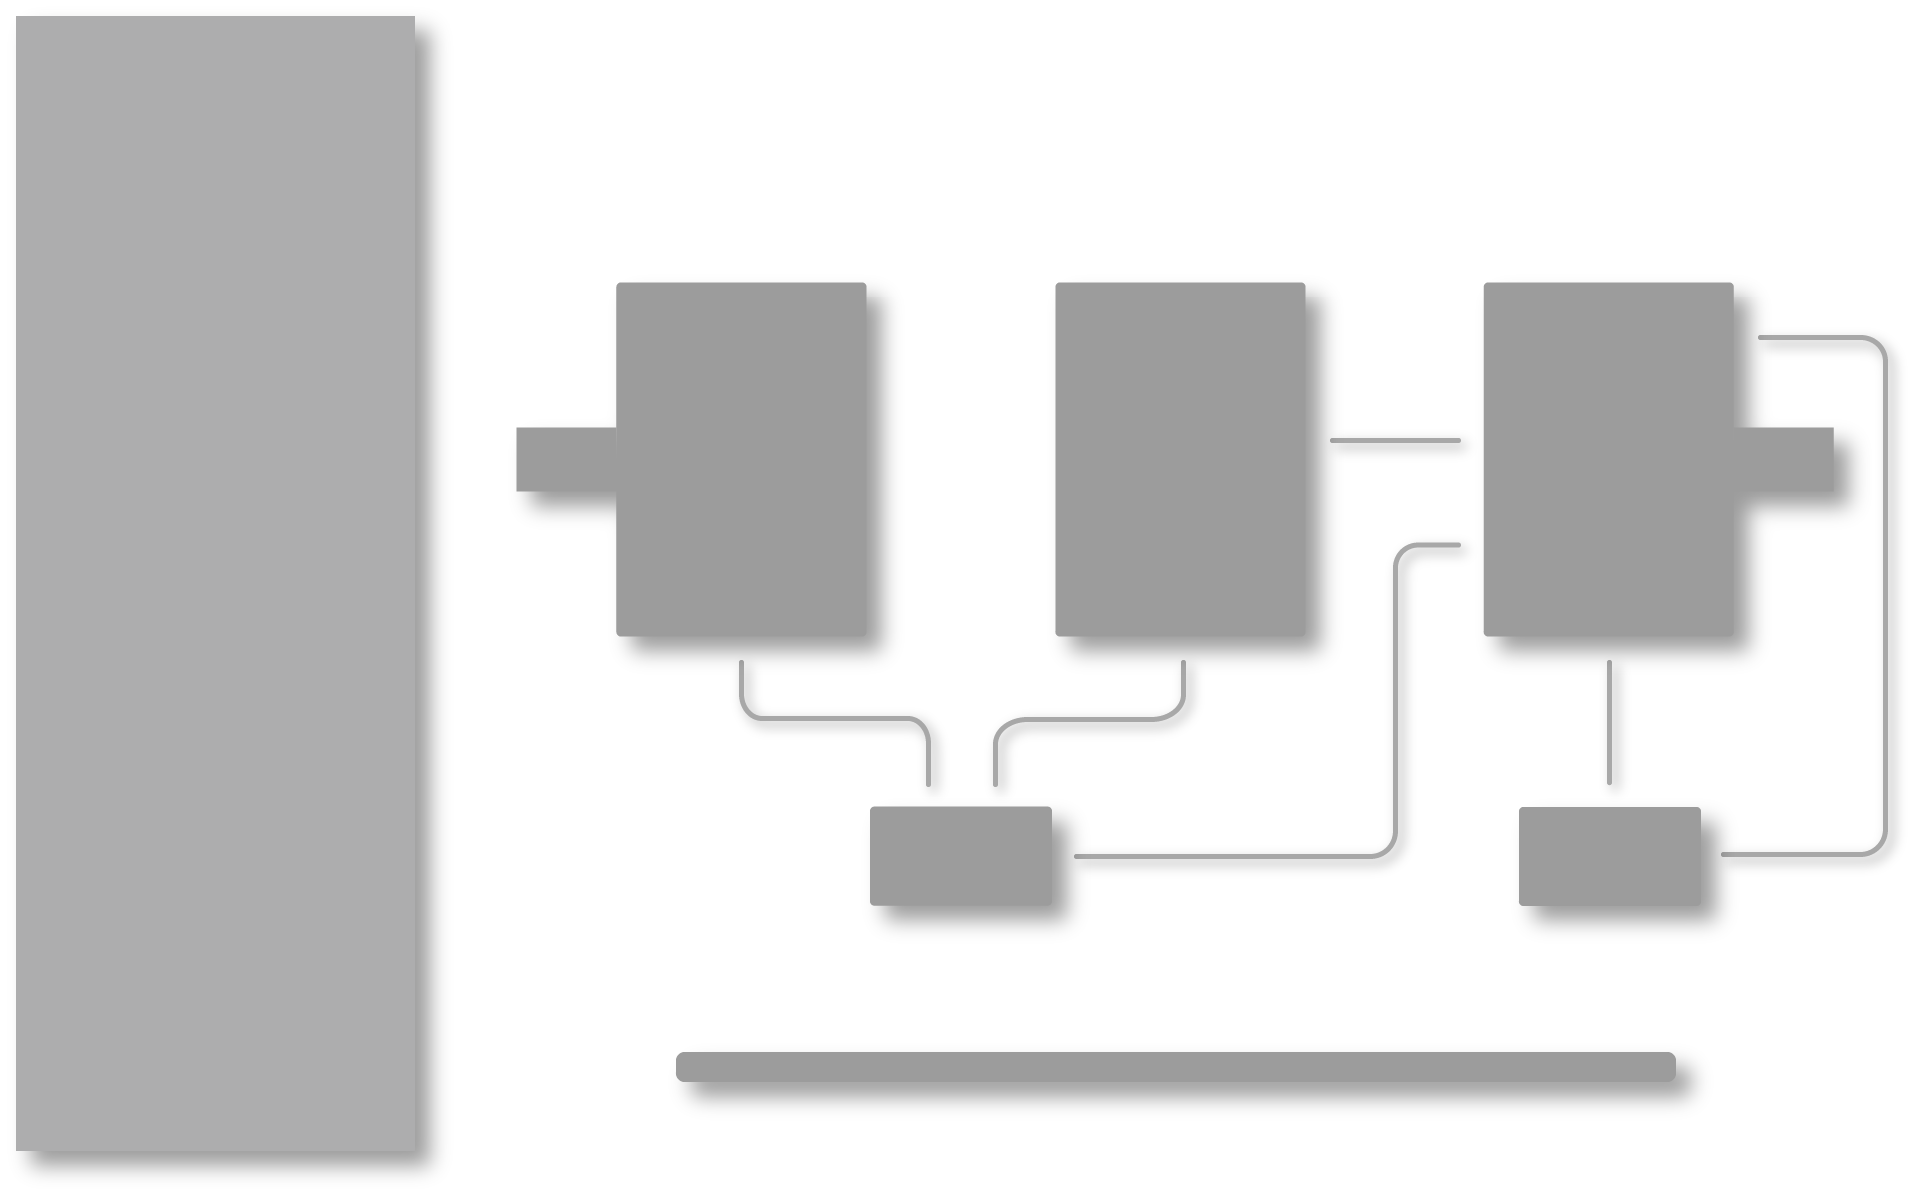
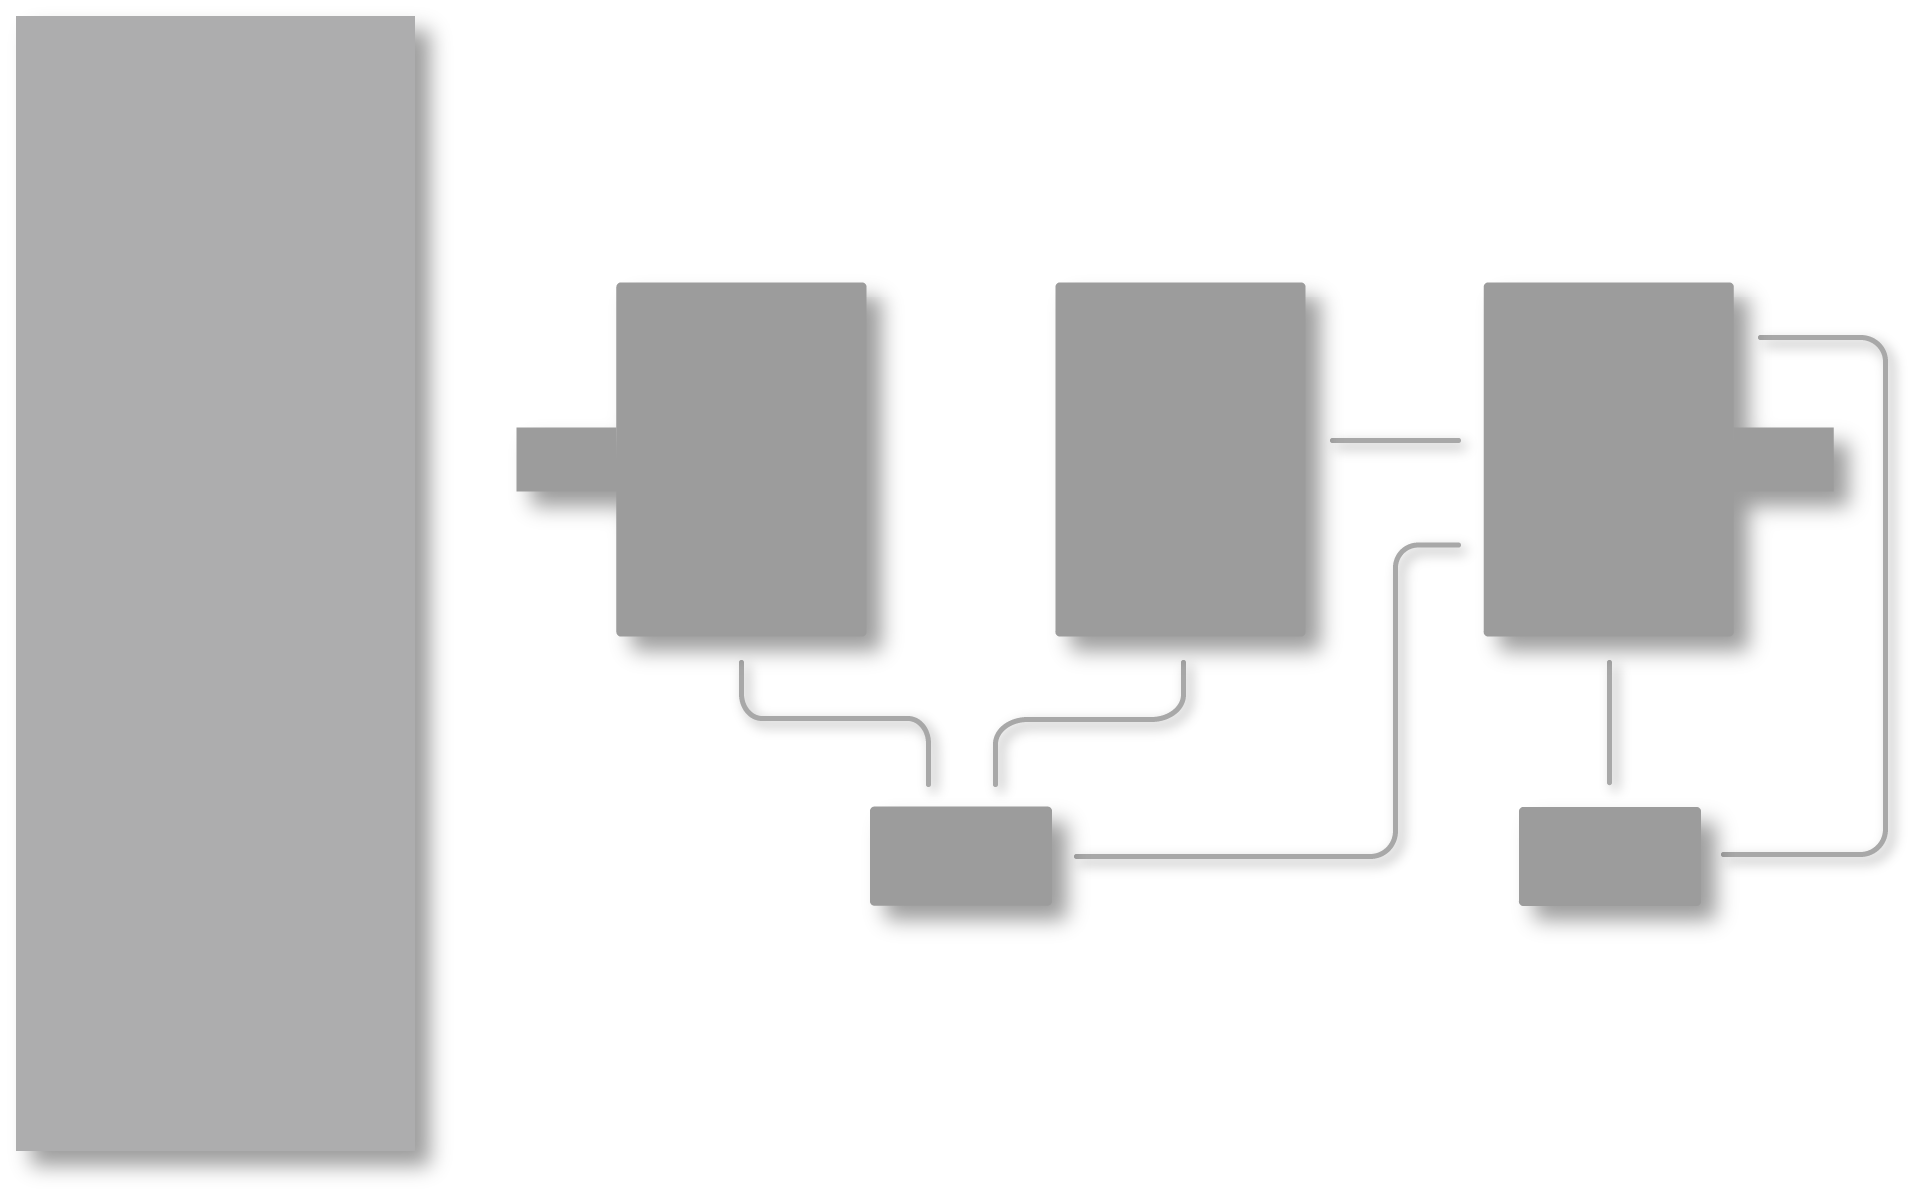
Removed Dropshadow from Slider

Changed region(s): [[0.3394, 0.8662, 0.8949, 0.9281]]

diff --git a/Screens/brewscreen.py b/Screens/brewscreen.py
@@ -5,7 +5,6 @@ from Common.utils import create_slider, create_label, create_image, create_butto
 from Screens.static_gui import initialize_static_elements  # Import the static elements initializer
 import Common.constants as constants
 
-
 class FullScreenWindow(QMainWindow):
     def __init__(self):
         super().__init__()
@@ -65,6 +64,10 @@ class FullScreenWindow(QMainWindow):
         self.static_elements['TXT_P1'].show()
         self.static_elements['TXT_P2'].show()
 
+        # Slider Labels
+        self.static_elements['TXT_Slider_0'].hide()
+        self.static_elements['TXT_Slider_100'].hide()
+
     def initialize_slider(self):
         """
         Initializes the slider and its value label.
@@ -79,6 +82,7 @@ class FullScreenWindow(QMainWindow):
             location=constants.SLIDER_COORDINATES,
             size=constants.SLIDER_SIZE
         )
+        self.slider.hide()  # Start with the slider hidden
         # Connect slider change to a function
         self.slider.valueChanged.connect(self.on_slider_change)
 
@@ -90,6 +94,7 @@ class FullScreenWindow(QMainWindow):
             size=constants.TXT_SLIDER_VALUE_SIZE,
             location=(constants.TXT_SLIDER_VALUE_COORDINATES)
         )
+        self.value_label.hide()  # Start with the label hidden
 
     def initialize_buttons(self):
         """
@@ -147,7 +152,8 @@ class FullScreenWindow(QMainWindow):
     def select_button(self, selected_key, name_key):
         """
         Ensures only one selection box is visible at a time and updates the current selection.
-        
+        Also shows the slider if a selection is active.
+
         Parameters:
         selected_key (str): The key of the image to show or hide.
         name_key (str): The key of the name text to hide or show.
@@ -159,6 +165,10 @@ class FullScreenWindow(QMainWindow):
             if name_key in self.static_elements:
                 self.static_elements[name_key].show()  # Show the name text
             self.current_selection = None  # Reset the current selection
+            self.slider.hide()  # Hide slider
+            self.value_label.hide()  # Hide label
+            self.static_elements['TXT_Slider_0'].hide() # Hide slider labels
+            self.static_elements['TXT_Slider_100'].hide() # Hide slider labels
         else:
             # Hide all selection boxes
             selection_keys = ['IMG_BK_Selected', 'IMG_HLT_Selected', 'IMG_P1_Selected', 'IMG_P2_Selected','IMG_REGBK_Selected','IMG_REGHLT_Selected']
@@ -176,6 +186,10 @@ class FullScreenWindow(QMainWindow):
             if name_key in self.static_elements:
                 self.static_elements[name_key].hide()
             self.current_selection = selected_key  # Update current selection
+            self.slider.show()  # Show slider
+            self.value_label.show()  # Show label
+            self.static_elements['TXT_Slider_0'].show() # Show slider labels
+            self.static_elements['TXT_Slider_100'].show() # Show slider labels
 
     def on_slider_change(self, value):
         """

diff --git a/Screens/static_gui.py b/Screens/static_gui.py
@@ -50,6 +50,9 @@ def initialize_static_images(parent_widget):
         'IMG_REGHLT_Selected': create_image(parent_widget, "TXT_REG_Selected.png", location=constants.TXT_REGHLT_SELECTED),
         'IMG_P1_Selected': create_image(parent_widget, "TXT_P1_Selected.png", location=constants.TXT_P1_SELECTED),
         'IMG_P2_Selected': create_image(parent_widget, "TXT_P2_Selected.png", location=constants.TXT_P2_SELECTED),
+        
+        # Slider Dropshadow
+        #'IMG_Slider_DropShadow': create_image(parent_widget, "Slider_DropShadow.png", location=constants.IMG_SLIDER_DROP_SHADOW_COORDINATES),
     }
 
 def initialize_static_text(parent_widget):

diff --git a/Common/constants.py b/Common/constants.py
@@ -10,6 +10,7 @@ SLIDER_MIN = 0
 SLIDER_MAX = 100
 SLIDER_COORDINATES = (660, 981)  # (x, y) position for the slider
 SLIDER_SIZE = (1000, 30)          # (width, height) of the slider
+IMG_SLIDER_DROP_SHADOW_COORDINATES = (632, 973)
 
 # Text Coordinates
 TXT_TITLE_COORDINATES = (13,13)
@@ -69,6 +70,8 @@ IMG_POT_BK_SELECTION_COORDINATES = (585,195)
 IMG_POT_HLT_SELECTION_COORDINATES = (1452,195)
 IMG_P1_SELECTION_COORDINATES = (840,723)
 IMG_P2_SELECTION_COORDINATES = (1490,723)
+
+
 
 
 # Button sizes
